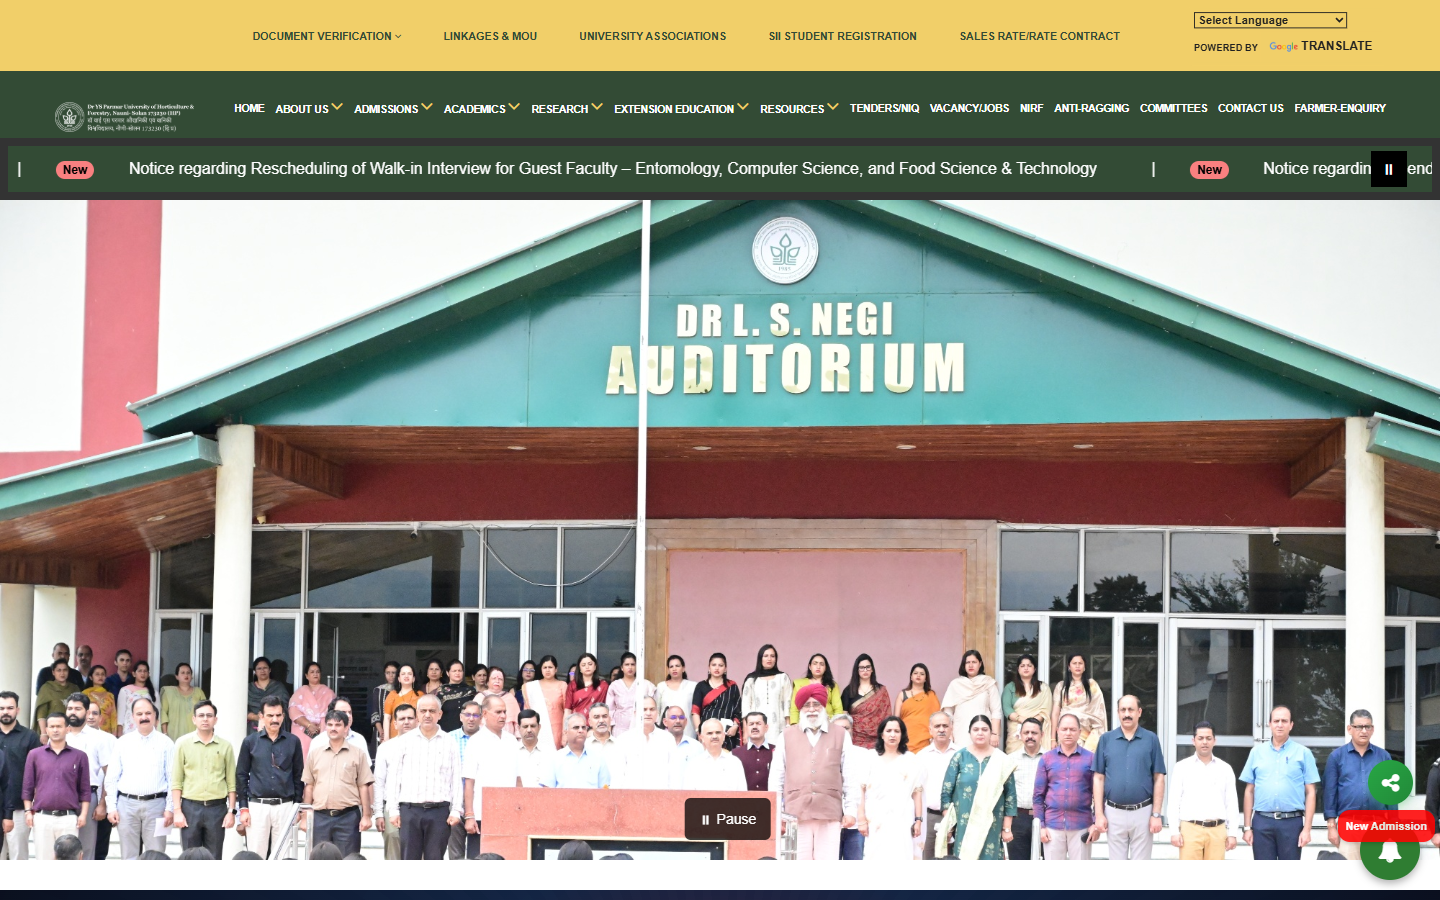
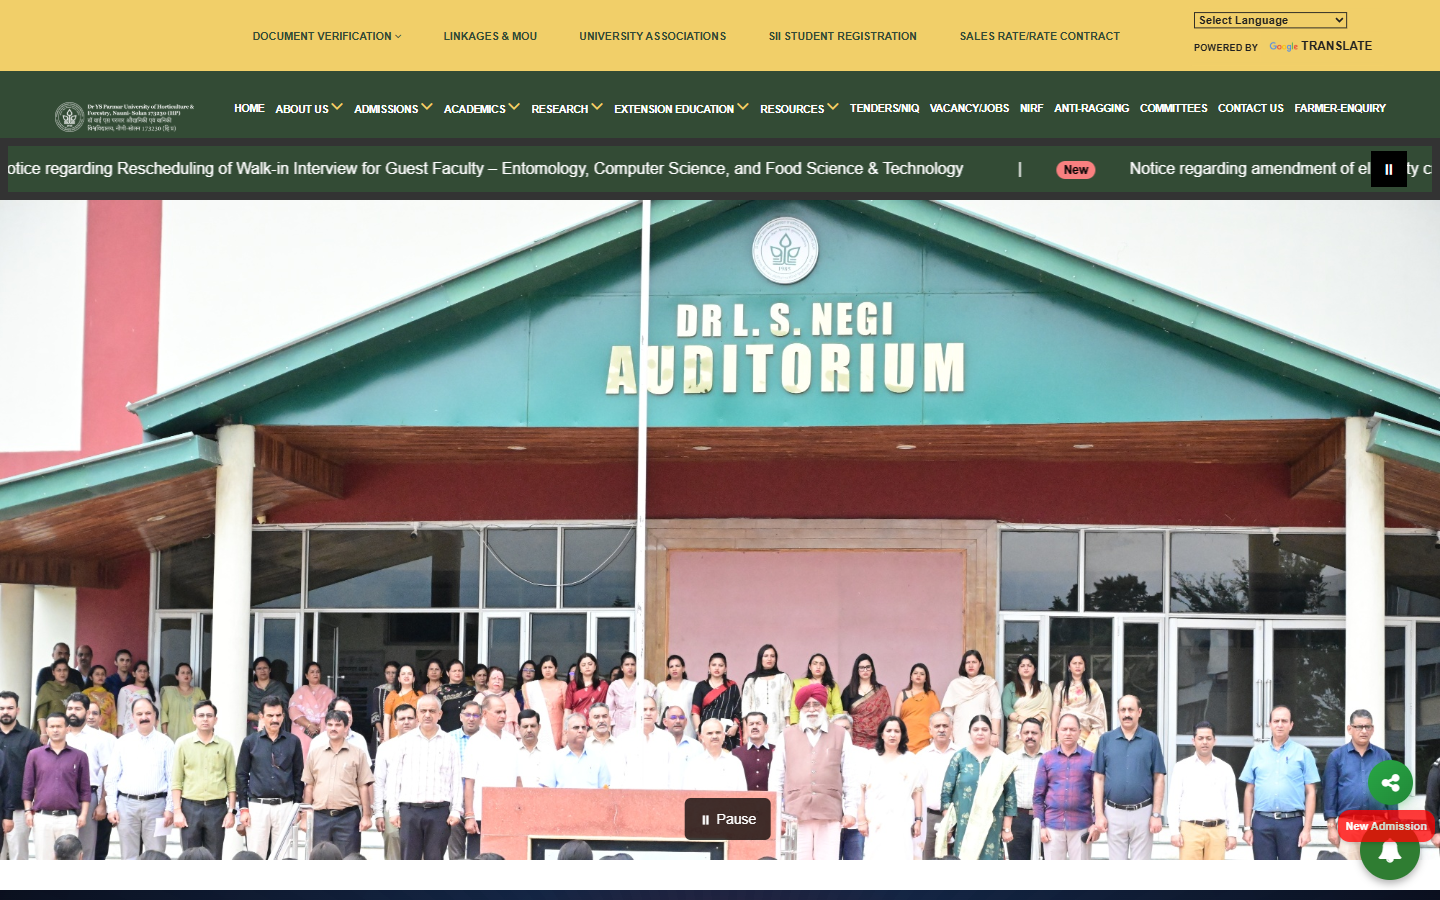
feat(screenshots): replace placeholder pages with verified live portal screenshots from uhf.ac.in

Changed region(s): [[0.0, 0.1556, 0.9375, 0.2178], [0.9688, 0.9022, 1.0, 0.9333]]

diff --git a/screenshots/README.md b/screenshots/README.md
@@ -7,7 +7,7 @@ This directory catalogs the visual layouts, design systems, and public interface
 ## 1. Public Institutional Web Portal
 
 ### 1.1 Institutional Landing Page & Hero (`/`)
-*Modern responsive landing page featuring multi-campus navigation, quick access links for Students, Farmers, Library, dynamic notice tickers, and event showcases.*
+*Modern responsive landing page featuring multi-campus navigation, quick access links for Students, Farmers, Library, dynamic notice tickers, and research showcases.*
 
 <p align="center">
   <img src="web-landing-hero.png" alt="YSP University Landing Page" width="900" style="border-radius: 8px; box-shadow: 0 4px 20px rgba(0,0,0,0.15);" />
@@ -15,65 +15,60 @@ This directory catalogs the visual layouts, design systems, and public interface
 
 ---
 
-### 1.2 About the University & Governance (`/About-University.html`)
-*Institutional profile, Vice-Chancellor's Desk, research mandates, mission objectives, and campus location directories.*
+### 1.2 Constituent College Portal & Department Hub (`/user/college-horticulture/...`)
+*College of Horticulture (Nauni, Solan) campus portal with dynamic sub-navigation, departmental facilities, research divisions, and faculty rosters.*
 
 <p align="center">
-  <img src="web-about-university.png" alt="About University Governance" width="900" style="border-radius: 8px; box-shadow: 0 4px 20px rgba(0,0,0,0.15);" />
+  <img src="web-college-portal.png" alt="College of Horticulture Portal" width="900" style="border-radius: 8px; box-shadow: 0 4px 20px rgba(0,0,0,0.15);" />
 </p>
 
 ---
 
-### 1.3 Admissions & Academic Catalog (`/Admission-Notice.html`)
-*Comprehensive admissions notices for Undergraduate (B.Sc. Hons), Postgraduate (M.Sc), MBA, Ph.D, and Diploma programs.*
+### 1.3 Centralized University Circulars & Announcements (`/all-notification/notification`)
+*Classified university notifications and administrative circulars with searchable records and downloadable official documents.*
 
 <p align="center">
-  <img src="web-admissions.png" alt="Admissions & Academic Catalog" width="900" style="border-radius: 8px; box-shadow: 0 4px 20px rgba(0,0,0,0.15);" />
+  <img src="web-notifications.png" alt="University Circulars and Notices" width="900" style="border-radius: 8px; box-shadow: 0 4px 20px rgba(0,0,0,0.15);" />
 </p>
 
 ---
 
-### 1.4 Procurement Tenders & Statutory Notices (`/Tender-Notice.html`)
-*Centralized procurement notices and bidding documents with automated deadline-based expiration filters and direct PDF downloads.*
+### 1.4 Public Procurement Tenders & RFPs (`/user/tenders`)
+*Centralized procurement tenders and bidding specifications with dynamic deadline-based auto-expiration filters and direct PDF downloads.*
 
 <p align="center">
-  <img src="web-tenders-notices.png" alt="Tenders & Public Notices" width="900" style="border-radius: 8px; box-shadow: 0 4px 20px rgba(0,0,0,0.15);" />
+  <img src="web-tenders.png" alt="Procurement Tenders and Notices" width="900" style="border-radius: 8px; box-shadow: 0 4px 20px rgba(0,0,0,0.15);" />
 </p>
 
 ---
 
-## 2. Administrative Governance Console (`/admin`)
+## 2. Faculty Self-Service & Onboarding Portal
 
-### 2.1 Centralized Faculty Roster & Moderation (`/admin/faculty`)
+### 2.1 Asynchronous Domain Verification & Email OTP Registration (`/emp/register`)
+*Secure self-onboarding portal enforcing institutional domain validation (`@tingebharat.com` / university pattern) with two-phase asynchronous email OTP verification.*
+
+<p align="center">
+  <img src="web-faculty-register.png" alt="Faculty Onboarding and OTP Verification Portal" width="900" style="border-radius: 8px; box-shadow: 0 4px 20px rgba(0,0,0,0.15);" />
+</p>
+
+---
+
+## 3. Administrative Governance Console (`/admin`)
+
+### 3.1 Centralized Faculty Roster & Moderation (`/admin/faculty`)
 - **Purpose:** Central operational registry displaying all registered faculty members, department associations, contact information, and moderation status.
 - **Key Elements:**
   - DataTables 1.13 multi-column sorting and instant search.
   - Dropdown page selector to bind faculty records to dynamic college templates (`cohft-facu`, etc.).
   - Asynchronous AJAX status toggle buttons (`Active` / `Deactivate`) with live UI feedback.
 
-### 2.2 Classified Circular & Tender Publisher (`/admin/notification/{url}`)
+### 3.2 Classified Circular & Tender Publisher (`/admin/notification/{url}`)
 - **Purpose:** Segregated publishing console for Tenders, Vacancies, NIRF Reports, Farmer's Corner, and Academic Circulars.
 - **Key Elements:**
   - Modal-based creation interface with document attachment upload (PDF/DOC) and external URL links.
   - Submission deadline date picker (`last_date`) driving the automated expiration engine.
 
-### 2.3 Dynamic Course Matrix & Table Manager (`/admin/table/coh-course-table`)
+### 3.3 Dynamic Course Matrix & Table Manager (`/admin/table/coh-course-table`)
 - **Purpose:** Real-time curriculum and syllabus table editor.
 - **Key Elements:**
   - Inline CRUD interface for course codes, course titles, and credit-hour breakdowns (`3(2+1)`).
-
----
-
-## 3. Faculty Self-Service Portal (`/employee`)
-
-### 3.1 Domain-Restricted Email & OTP Verification (`/emp-register`)
-- **Purpose:** Secure faculty self-onboarding interface.
-- **Key Elements:**
-  - Institutional domain validation (`@tingebharat.com` / university pattern).
-  - Two-phase interactive OTP dispatch and verification without full-page reloads.
-
-### 3.2 Faculty Profile Management (`/employee/profile`)
-- **Purpose:** Academic profile and credential maintenance workspace.
-- **Key Elements:**
-  - Biographical data, academic discipline, research specialization, and mission statement forms.
-  - Profile avatar and curriculum vitae (PDF) upload dropzones.
